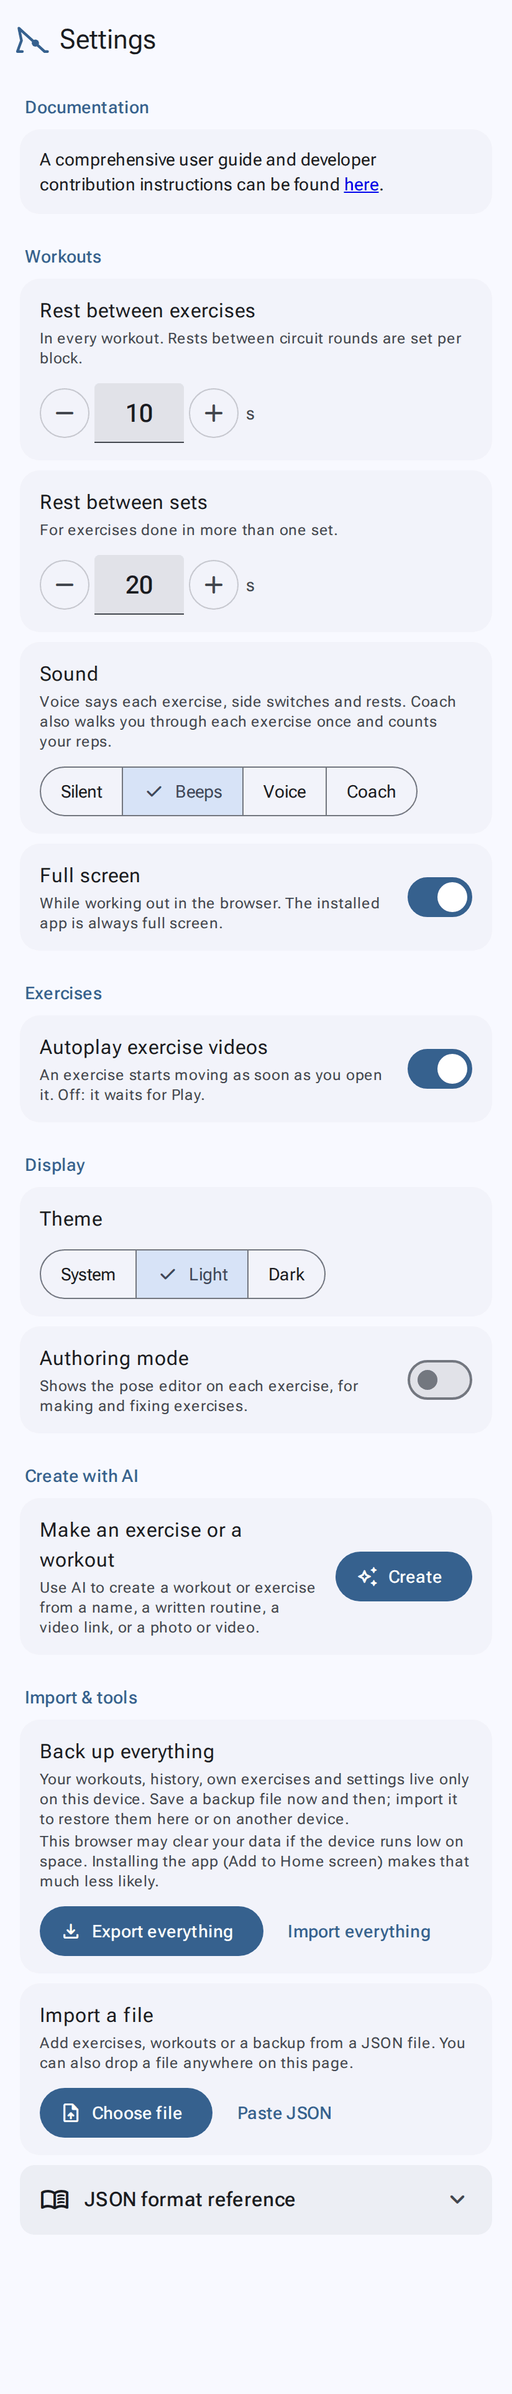
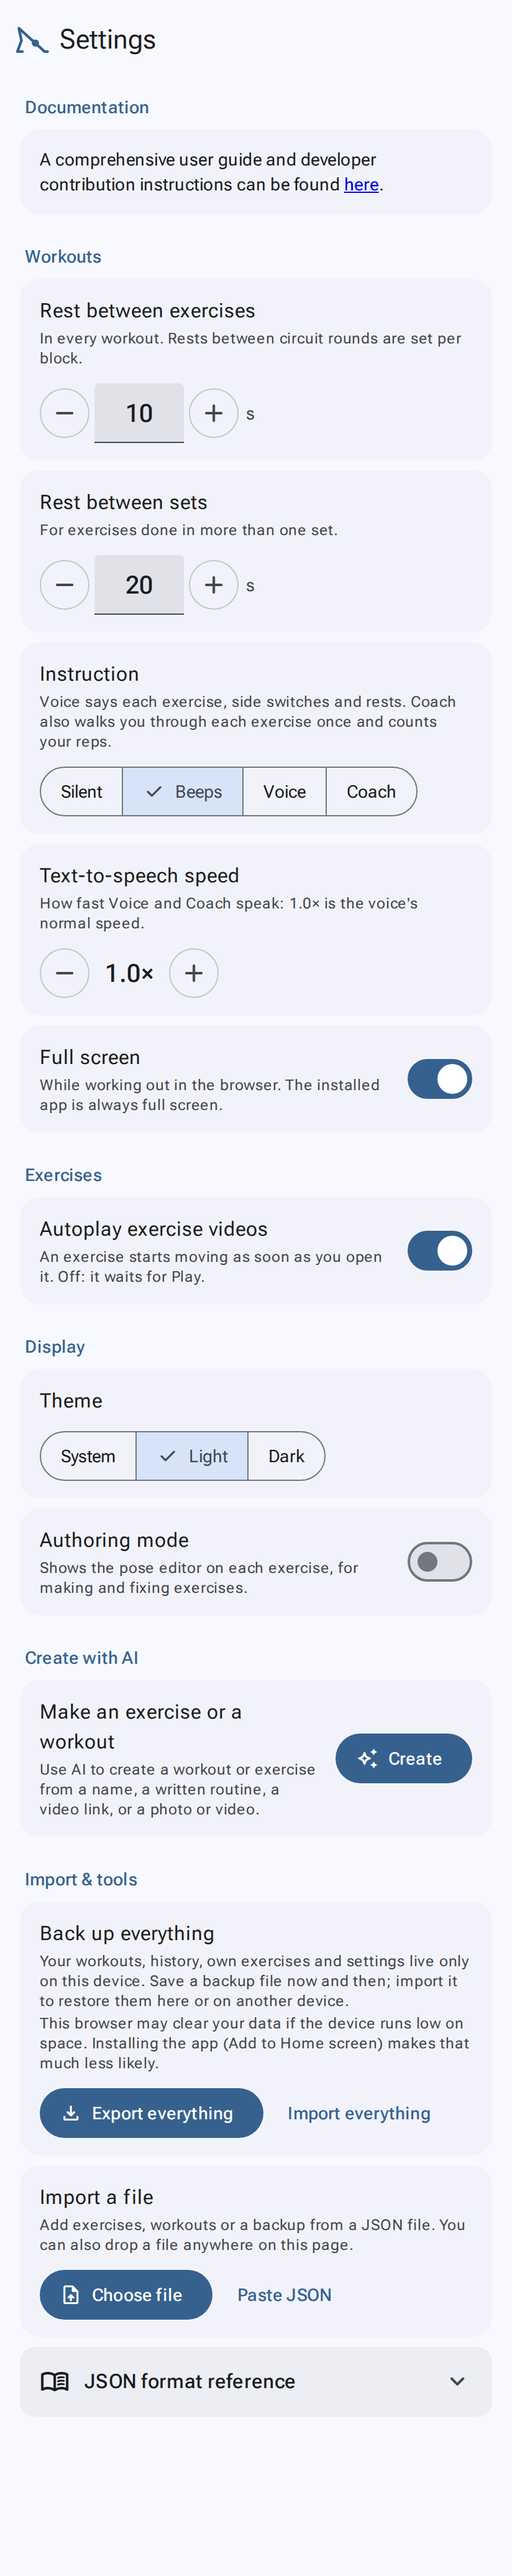
Settings: Sound is now Instruction; Text-to-speech speed (0.5-3x)
- Instruction (the old Sound setting; its storage key is kept): same Silent / Beeps / Voice / Coach
- Text-to-speech speed under it: 0.5x to 3.0x in steps of 0.1 (default 1.0x), a sample at the new speed; used by every spoken line; nstructr-speech-rate-v1; in the backup
- the player's sound button and its toast say Instruction; wiki updated

Claude-Session: https://claude.ai/code/session_0133kyx5MPf8aRU2sQwm2BG7

diff --git a/src/app/3-details.js b/src/app/3-details.js
@@ -132,7 +132,7 @@ function closeEditor() {
 $('#editPoseBtn').addEventListener('click', () => (XC.editing ? closeEditor() : openEditor()));
 
 /* ---------- Sound in the exercise player ----------
-   It follows the Sound setting: Silent and Beeps stay quiet (there are no rests or holds to beep for); Voice and
+   It follows the Instruction setting: Silent and Beeps stay quiet (there are no rests or holds to beep for); Voice and
    Coach read each step's cue on the first pass through the exercise (the step waits for its line), then count the
    reps. Pausing stops the voice; a new side or direction starts a new first pass. */
 const XS = { speaking: false, token: 0, last: '' };
@@ -153,7 +153,7 @@ $('#loopBtn').addEventListener('click', () => {
   snack(loopOn() ? 'Loop on: the exercise repeats' : 'Loop off: once through, then it stops');
 });
 $('#muteBtn').addEventListener('click', () => {
-  if (!(WK.sound === 'voice' || WK.sound === 'coach')) { snack('The exercise voice follows Settings → Sound: choose Voice or Coach.', 5000); return; }
+  if (!(WK.sound === 'voice' || WK.sound === 'coach')) { snack('The exercise voice follows Settings → Instruction: choose Voice or Coach.', 5000); return; }
   setPref(EXMUTE_KEY, exMuted() ? 'off' : 'on'); renderExToggles();
   if (exMuted()) exHush(); else if (S.playing) { XS.last = ''; exStepSound(S.idx); }
 });
@@ -171,7 +171,7 @@ function exStepSound(i) {
 function exHush() { XS.token++; XS.speaking = false; XS.last = ''; try { if ('speechSynthesis' in window) speechSynthesis.cancel(); } catch (e) { } }
 
 /* ---------- Settings ---------- */
-const THEME_KEY = 'nstructr-theme-v1', SPEED_KEY = 'nstructr-speed-v1', AUTHOR_KEY = 'nstructr-authoring-v1', REST_KEY = 'nstructr-rest-between-v1', REST_SETS_KEY = 'nstructr-rest-sets-v1', AUTOPLAY_KEY = 'nstructr-autoplay-v1';
+const THEME_KEY = 'nstructr-theme-v1', SPEED_KEY = 'nstructr-speed-v1', AUTHOR_KEY = 'nstructr-authoring-v1', REST_KEY = 'nstructr-rest-between-v1', REST_SETS_KEY = 'nstructr-rest-sets-v1', AUTOPLAY_KEY = 'nstructr-autoplay-v1', SPEECH_RATE_KEY = 'nstructr-speech-rate-v1';
 const pref = (k, d) => { try { return localStorage.getItem(k) || d; } catch (e) { return d; } };
 const setPref = (k, v) => { try { localStorage.setItem(k, v); } catch (e) { } };
 const authoring = () => pref(AUTHOR_KEY, 'off') === 'on';
@@ -199,6 +199,20 @@ function holdRepeat(box, sel, nudge) {
     nudge(b);
   });
 }
+/* text-to-speech speed (SpeechSynthesisUtterance.rate): 0.5–3 in steps of 0.1, 1 = the voice's normal speed */
+const speechRate = () => { const v = parseFloat(pref(SPEECH_RATE_KEY, '1')); return v >= 0.5 && v <= 3 ? v : 1; };
+let RATE_T = 0;
+function setRate(v, preview = true) {
+  v = Math.min(3, Math.max(0.5, Math.round((+v || 1) * 10) / 10));
+  setPref(SPEECH_RATE_KEY, String(v));
+  $('#setRate').textContent = `${v.toFixed(1)}×`;
+  document.querySelectorAll('[data-rate-delta]').forEach(b => { b.disabled = +b.dataset.rateDelta < 0 ? v <= 0.5 : v >= 3; });
+  // hear it (once the buttons are let go), whatever the Instruction setting
+  clearTimeout(RATE_T);
+  if (preview && 'speechSynthesis' in window) RATE_T = setTimeout(() => {
+    try { speechSynthesis.cancel(); const u = new SpeechSynthesisUtterance('This is how fast I speak.'); u.rate = speechRate(); speechSynthesis.speak(u); } catch (e) { }
+  }, 400);
+}
 const restGap = () => { const v = parseFloat(pref(REST_KEY, '10')); return v >= 0 ? v : 10; };
 /* seconds of rest between sets of an exercise, in every workout (a setting since Sep 2026; items' "rest" is ignored) */
 const restSets = () => { const v = parseFloat(pref(REST_SETS_KEY, '20')); return v >= 0 ? v : 20; };
@@ -211,7 +225,7 @@ function renderSettings() {
   seg('#setTheme', 'settheme', [['system', 'System'], ['light', 'Light'], ['dark', 'Dark']], pref(THEME_KEY, 'system'));
   $('#setFullscreen').checked = wantFullscreen();
   $('#setAutoplay').checked = pref(AUTOPLAY_KEY, 'on') !== 'off';
-  $('#setRest').value = restGap(); $('#setRestSets').value = restSets();
+  $('#setRest').value = restGap(); $('#setRestSets').value = restSets(); setRate(speechRate(), false);
   $('#setAuthoring').checked = authoring();
   renderPersistNote();
 }
@@ -230,6 +244,7 @@ function setRest(which, v) {
 }
 $('#setRest').addEventListener('change', e => setRest('between', e.target.value));
 $('#setRestSets').addEventListener('change', e => setRest('sets', e.target.value));
+holdRepeat($('#view-settings'), '[data-rate-delta]', b => setRate(speechRate() + +b.dataset.rateDelta / 10));
 holdRepeat($('#view-settings'), '[data-rest-delta]', b => setRest(b.dataset.restKey, (b.dataset.restKey === 'sets' ? restSets() : restGap()) + +b.dataset.restDelta));
 $('#setAuthoring').addEventListener('change', e => { setPref(AUTHOR_KEY, e.target.checked ? 'on' : 'off'); applyAuthoring(); snack(e.target.checked ? 'Authoring mode on: the Edit button (pencil) on any exercise now shows the poses and camera too' : 'Authoring mode off', 6000); });
 

diff --git a/src/body.html b/src/body.html
@@ -54,8 +54,12 @@
           <span class="stepper"><button class="icon-btn stateful" data-rest-key="sets" data-rest-delta="-1" aria-label="Less rest between sets"><span class="icon">remove</span></button>
             <input id="setRestSets" class="num-field" type="number" inputmode="numeric" min="0" max="300" step="1" aria-label="Rest between sets, seconds">
             <button class="icon-btn stateful" data-rest-key="sets" data-rest-delta="1" aria-label="More rest between sets"><span class="icon">add</span></button><span class="unit" aria-hidden="true">s</span></span></div>
-        <div class="setting"><div class="txt"><span class="body-large">Sound</span><span class="body-small muted">Voice says each exercise, side switches and rests. Coach also walks you through each exercise once and counts your reps.</span></div>
-          <div class="segmented" id="setSound" role="group" aria-label="Sound"></div></div>
+        <div class="setting"><div class="txt"><span class="body-large">Instruction</span><span class="body-small muted">Voice says each exercise, side switches and rests. Coach also walks you through each exercise once and counts your reps.</span></div>
+          <div class="segmented" id="setSound" role="group" aria-label="Instruction"></div></div>
+        <div class="setting"><span class="txt"><span class="body-large">Text-to-speech speed</span><span class="body-small muted">How fast Voice and Coach speak: 1.0× is the voice's normal speed.</span></span>
+          <span class="stepper"><button class="icon-btn stateful" data-rate-delta="-1" aria-label="Speak slower"><span class="icon">remove</span></button>
+            <output id="setRate" aria-live="polite">1.0×</output>
+            <button class="icon-btn stateful" data-rate-delta="1" aria-label="Speak faster"><span class="icon">add</span></button></span></div>
         <label class="setting"><span class="txt"><span class="body-large">Full screen</span><span class="body-small muted">While working out in the browser. The installed app is always full screen.</span></span>
           <input type="checkbox" class="switch" id="setFullscreen"></label>
       </section>
@@ -142,7 +146,7 @@
         <div class="ov-progress" id="wpSegs" aria-hidden="true"></div>
         <div class="ov-controls" id="wpControls">
           <button class="ov-btn ov-exit" id="wpExit" aria-label="Hold to exit the workout"><span class="icon">close</span><span class="ov-hold"></span></button>
-          <button class="ov-btn ov-sound" data-wact="sound" id="wpSound" aria-label="Sound"><span class="icon">volume_up</span><span class="ov-sound-label" id="wpSoundLabel"></span></button>
+          <button class="ov-btn ov-sound" data-wact="sound" id="wpSound" aria-label="Instruction"><span class="icon">volume_up</span><span class="ov-sound-label" id="wpSoundLabel"></span></button>
           <div class="ov-mid">
             <button class="ov-btn" data-wact="prevItem" aria-label="Previous exercise"><span class="icon">skip_previous</span></button>
             <button class="ov-btn ov-play" data-wact="pause" id="wpPlay" aria-label="Pause"><span class="icon fill">pause</span></button>

diff --git a/src/app/4-workouts.js b/src/app/4-workouts.js
@@ -496,9 +496,9 @@ function say(text, coachOnly = false, { dropIfBusy = false } = {}) {
     if (dropIfBusy && (speechSynthesis.speaking || speechSynthesis.pending)) return Promise.resolve();
     return new Promise(res => {
       let done = false; const fin = () => { if (!done) { done = true; res(); } };
-      const u = new SpeechSynthesisUtterance(text); u.rate = 1;
+      const u = new SpeechSynthesisUtterance(text); u.rate = speechRate();
       u.onend = fin; u.onerror = fin;
-      setTimeout(fin, 1500 + text.split(/\s+/).length * 450);      // never wait forever on a voice that doesn't report back
+      setTimeout(fin, 1500 + text.split(/\s+/).length * 450 / Math.min(1, speechRate()));      // never wait forever on a voice that doesn't report back
       try { speechSynthesis.speak(u); } catch (e) { fin(); }        // a throw here would otherwise leave a guided step waiting forever
     });
   } catch (e) { return Promise.resolve(); }
@@ -514,7 +514,7 @@ const SOUND_MODES = [['off', 'volume_off', 'Silent'], ['beeps', 'notifications',
 function setSound(mode) {
   WK.sound = mode; try { localStorage.setItem(SOUND_KEY, mode); } catch (e) { }
   const m = SOUND_MODES.find(x => x[0] === mode) || SOUND_MODES[1];
-  if ($('#wpSound')) { $('#wpSound .icon').textContent = m[1]; $('#wpSoundLabel').textContent = m[2]; $('#wpSound').setAttribute('aria-label', `Sound: ${m[2]}. Tap to change.`); }
+  if ($('#wpSound')) { $('#wpSound .icon').textContent = m[1]; $('#wpSoundLabel').textContent = m[2]; $('#wpSound').setAttribute('aria-label', `Instruction: ${m[2]}. Tap to change.`); }
   if (mode === 'off' && 'speechSynthesis' in window) speechSynthesis.cancel();
 }
 
@@ -892,7 +892,7 @@ function wpAction(act) {
   if (S.view === 'wplay' && WP.phase !== 'done' && act !== 'pause') showControls(isPaused());
   if (act === 'sound') {
     const k = SOUND_MODES.findIndex(x => x[0] === WK.sound), nx = SOUND_MODES[(k + 1) % SOUND_MODES.length];
-    setSound(nx[0]); unlockAudio(); toast(`Sound: ${nx[2]}`); showControls(isPaused()); return;
+    setSound(nx[0]); unlockAudio(); toast(`Instruction: ${nx[2]}`); showControls(isPaused()); return;
   }
   if (act === 'restMore') { WP.restLeft += 15; return; }
   if (act === 'restSkip') { if (WP.phase === 'rest') runCurrent(true); return; }

diff --git a/src/app/6-pwa.js b/src/app/6-pwa.js
@@ -32,7 +32,7 @@ function backupData() {
   return {
     format: BACKUP_FORMAT, version: FILE_VERSION, exported: new Date().toISOString(),
     workouts: WK.list || [], exercises: S.lib.items, bookmarks: [...(BOOKMARKS || [])], history: loadLog(),
-    settings: { sound: WK.sound, ...(fullscreen ? { fullscreen } : {}) }
+    settings: { sound: WK.sound, speechRate: speechRate(), ...(fullscreen ? { fullscreen } : {}) }
   };
 }
 async function exportEverything() {
@@ -54,6 +54,7 @@ function restoreBackup(data) {
   saveLog(byId(loadLog(), log).sort((a, b) => String(a.start).localeCompare(String(b.start))));
   const st = data.settings || {};
   if (st.sound && SOUND_MODES.some(m => m[0] === st.sound)) setSound(st.sound);
+  if (typeof st.speechRate === 'number') setRate(st.speechRate, false);
   if (st.fullscreen) { try { localStorage.setItem(FS_KEY, st.fullscreen); } catch (e) { } }
   keepStorage();
   return { workouts: ws.length, exercises: exs.length, sessions: log.length };

diff --git a/tools/e2e/speech_rate.py b/tools/e2e/speech_rate.py
@@ -1,0 +1,35 @@
+import asyncio, os
+# point at a served build, e.g.  python3 -m http.server 8000 -d _site
+URL = os.environ.get('NSTRUCTR_URL', 'http://localhost:8000/nstructr.html')
+from playwright.async_api import async_playwright
+# Settings: "Instruction" (was Sound) and Text-to-speech speed: 0.5-3 in 0.1 steps, remembered, used by every spoken
+# line (say()), a sample at the new speed, in the backup.
+STUB = """window.SPOKEN = []; speechSynthesis.speak = u => { SPOKEN.push([u.text, u.rate]); setTimeout(() => u.onend && u.onend(), 5); }; speechSynthesis.cancel = () => {};"""
+async def main():
+    async with async_playwright() as p:
+        b = await p.chromium.launch(); errs = []
+        pg = await b.new_page(viewport={'width': 412, 'height': 860}); pg.on('pageerror', lambda e: errs.append(str(e)))
+        await pg.goto(URL + '#/settings', wait_until='domcontentloaded'); await pg.wait_for_timeout(600)
+        await pg.evaluate(STUB)
+        print('labels                  ', await pg.evaluate("[...document.querySelectorAll('#view-settings .setting .body-large')].map(x => x.textContent).filter(t => /Instruction|speed|Sound/.test(t))"))
+        print('default                 ', await pg.evaluate("[$('#setRate').textContent, speechRate()]"))
+        for _ in range(3): await pg.click('[data-rate-delta="1"]')
+        await pg.wait_for_timeout(600)
+        print('+0.3                    ', await pg.evaluate("[$('#setRate').textContent, speechRate(), SPOKEN]"))
+        for _ in range(8): await pg.click('[data-rate-delta="-1"]')
+        print('floor                   ', await pg.evaluate("[$('#setRate').textContent, document.querySelector('[data-rate-delta=\"-1\"]').disabled]"))
+        await pg.evaluate("setRate(9, false)")
+        print('ceiling                 ', await pg.evaluate("[$('#setRate').textContent, document.querySelector('[data-rate-delta=\"1\"]').disabled]"))
+        await pg.evaluate("setRate(1.7, false)")
+        await pg.reload(wait_until='domcontentloaded'); await pg.wait_for_timeout(600); await pg.evaluate(STUB)
+        print('after reload            ', await pg.evaluate("[$('#setRate').textContent, localStorage.getItem('nstructr-speech-rate-v1')]"))
+        await pg.evaluate("setSound('voice'); SPOKEN.length = 0"); await pg.evaluate("say('Squat')"); await pg.wait_for_timeout(100)
+        print('say() uses it           ', await pg.evaluate("SPOKEN"))
+        print('backup                  ', await pg.evaluate("backupData().settings"))
+        await pg.evaluate("restoreBackup({ ...backupData(), settings: { sound: 'voice', speechRate: 2.4 } })")
+        print('restore                 ', await pg.evaluate("[speechRate(), $('#setRate').textContent]"))
+        print('player button           ', await pg.evaluate("$('#wpSound').getAttribute('aria-label')"))
+        await pg.set_viewport_size({'width': 360, 'height': 398})
+        print('360 wide sideways       ', await pg.evaluate("document.documentElement.scrollWidth > innerWidth"))
+        print('errors', errs); await b.close()
+asyncio.run(main())

diff --git a/HANDOFF.md b/HANDOFF.md
@@ -668,7 +668,7 @@ must not fill with **duplicates**, and a known exercise under another name shoul
 | `nstructr-bookmarks-v1` | ids of bookmarked exercises, library or own (a flag; library ones aren't copied, so library fixes reach them) |
 | `motion-guide-workouts-v1` | `{list: [...]}` user workouts (runtime form with uids) |
 | `motion-guide-session-v1` | `{wid, i}` resume point |
-| `motion-guide-sound-v1` | sound mode |
+| `motion-guide-sound-v1` | sound mode: off / beeps / voice / coach (shown as **Instruction** since Sep 2026; the key keeps its old name) |
 | `motion-guide-log-v1` | history sessions (capped at 500) |
 | `nstructr-fullscreen-v1` | `"off"` to disable the full-screen request |
 | `nstructr-theme-v1` | `system` / `light` / `dark` (applied by an inline script in `<head>` before first paint) |
@@ -679,6 +679,7 @@ must not fill with **duplicates**, and a known exercise under another name shoul
 | `nstructr-loop-v1` | `"off"`: the exercise page plays once through (setup, one rep, finish), then stops (overlay Loop toggle) |
 | `nstructr-exmute-v1` | `"on"`: the exercise page's spoken cues are muted (overlay Mute toggle; the voice also needs Sound = Voice/Coach) |
 | `nstructr-group-collections-v1` | `"off"`: the Exercises tab lists All collections as one A–Z list instead of grouped by collection (the tab's own switch) |
+| `nstructr-speech-rate-v1` | text-to-speech speed, 0.5–3 (steps of 0.1; default 1): `SpeechSynthesisUtterance.rate` for Voice and Coach (Settings > Workouts, under Instruction; in the backup's `settings.speechRate`) |
 | `nstructr-autoplay-v1` | `"off"`: exercises wait for Play when opened (Settings > Exercises; reduced motion also stops autoplay) |
 | `nstructr-rest-sets-v1` | seconds of rest between sets, in every workout (default 20, 0–300; Settings > Workouts). Workout items' `rest` is ignored |
 | `nstructr-rest-between-v1` | seconds of rest between exercises, in every workout (default 10, 0–300 in 1 s steps; Settings > Workouts). Workout files' `restBetween` is ignored |

diff --git a/wiki/Exercises.md b/wiki/Exercises.md
@@ -38,7 +38,7 @@ The **Exercises** tab is the library: over 130 exercises, each animated step by 
 - **The figure** plays the exercise on a loop (it starts by itself unless you turn off
   [Autoplay](Settings.md#autoplay-exercise-videos)). Tap it to show the controls: previous step, play/pause, next step,
   and in the corner **Loop** (off: it plays once through, then stops; Play starts it again) and **Mute** (quiets the
-  spoken cues on this page; they follow Settings → Sound). Both are remembered.
+  spoken cues on this page; they follow Settings → Instruction). Both are remembered.
   The first tap only shows them. They stay up while paused and fade while playing.
 - Under the figure: the **current step**, with its number, name and cue.
 - **Side** (for exercises done one side at a time, such as *Right leg back* / *Left leg back*) and **Direction**
@@ -54,9 +54,9 @@ Scroll down for the details:
   side), where the description comes from, and any note on reps.
 - **Steps**: every step in order (tap one to jump the figure to it).
 
-### Sound on the exercise page
+### Instruction on the exercise page
 
-The exercise page follows your **Sound** setting (see [Settings](Settings.md#sound)):
+The exercise page follows your **Instruction** setting (see [Settings](Settings.md#instruction)):
 
 - **Silent** and **Beeps**: quiet.
 - **Voice** and **Coach**: the first time through, each step's cue is read out and the figure waits until it's

diff --git a/wiki/Settings.md b/wiki/Settings.md
@@ -18,9 +18,13 @@ going) or type a number, from 0 to 300. Default 10.
 Seconds of rest between the sets of an exercise done in more than one set, in every workout. Same controls.
 Default 20. (Rest between circuit rounds is set on each block.)
 
-### Sound
-**Silent**, **Beeps**, **Voice** or **Coach**: see [Working out → Sound](Working-out.md#sound). Also used by the
-exercise page (Voice and Coach read each step's cue once, then count).
+### Instruction
+**Silent**, **Beeps**, **Voice** or **Coach**: see [Working out → Instruction](Working-out.md#instruction). Also used
+by the exercise page (Voice and Coach read each step's cue once, then count).
+
+### Text-to-speech speed
+How fast Voice and Coach speak, from **0.5×** to **3.0×** in steps of 0.1 (**1.0×** is the voice's normal speed).
+Tap − or +, or hold one to keep going; you hear a short sample at the new speed.
 
 ### Full screen
 Whether a workout in the browser goes full screen. The installed app is always full screen.

diff --git a/wiki/Working-out.md b/wiki/Working-out.md
@@ -32,7 +32,7 @@ on. Beeps count down the last 3 seconds in Beeps, Voice and Coach modes.
 
 <img src="images/cover-rest.png" width="300" alt="A rest: countdown, what's next, +15 s and Skip">
 
-## Sound
+## Instruction
 
 | Mode | You hear |
 |---|---|
@@ -42,7 +42,7 @@ on. Beeps count down the last 3 seconds in Beeps, Voice and Coach modes.
 | **Coach** | Voice, plus a **guided run-through** of each exercise: one slow pass reading every step's cue, then counted reps ("Halfway", "Last one") |
 
 The voice is your phone's own text-to-speech, so it works offline. It never talks over itself: a count is skipped
-rather than interrupting a sentence. Pausing stops it; playing again re-reads the current step.
+rather than interrupting a sentence. Its speed is a setting ([Text-to-speech speed](Settings.md#text-to-speech-speed)). Pausing stops it; playing again re-reads the current step.
 
 ## Stopping and resuming
 

diff --git a/wiki/Getting-started.md b/wiki/Getting-started.md
@@ -24,7 +24,7 @@ Updates arrive by themselves the next time you open the app while online.
 |---|---|
 | **Workouts** | Starting a workout, making your own, your history |
 | **Exercises** | Looking up how to do an exercise, bookmarking favourites |
-| **Settings** | Sound, theme, rest between exercises, Create with AI, backups |
+| **Settings** | Instruction (sound) and speech speed, theme, rest between exercises, Create with AI, backups |
 
 On a phone the tabs are at the bottom. On short screens (the cover screen, or a phone on its side) they move to
 the top bar as icons, to keep clear of the camera cutouts.

diff --git a/wiki/Troubleshooting.md b/wiki/Troubleshooting.md
@@ -3,7 +3,7 @@
 [← User guide](Home.md)
 
 **I can't hear anything.**
-Check **Settings → Sound** is Voice or Coach, the phone isn't on silent, and media volume is up. The voice is the
+Check **Settings → Instruction** is Voice or Coach, the phone isn't on silent, and media volume is up. The voice is the
 phone's text-to-speech: in Android, *Settings → Accessibility → Text-to-speech* should have an engine and a
 voice installed. Some apps' built-in browsers (opening the link from a chat app) can't speak: open it in Chrome.
 
